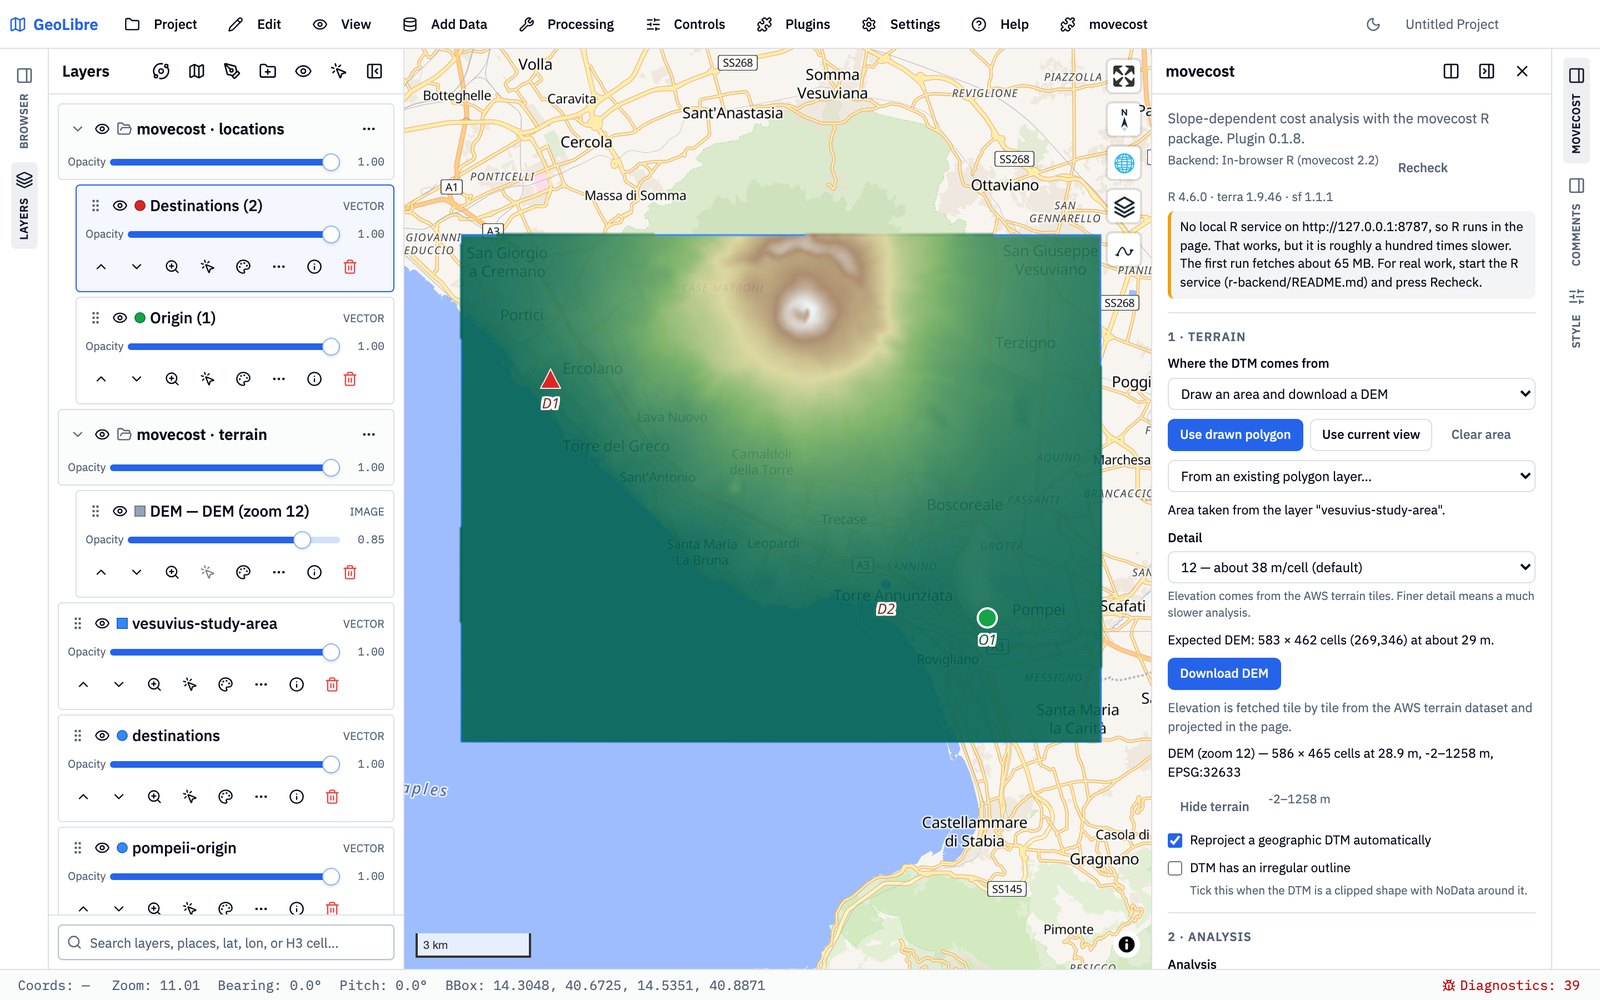
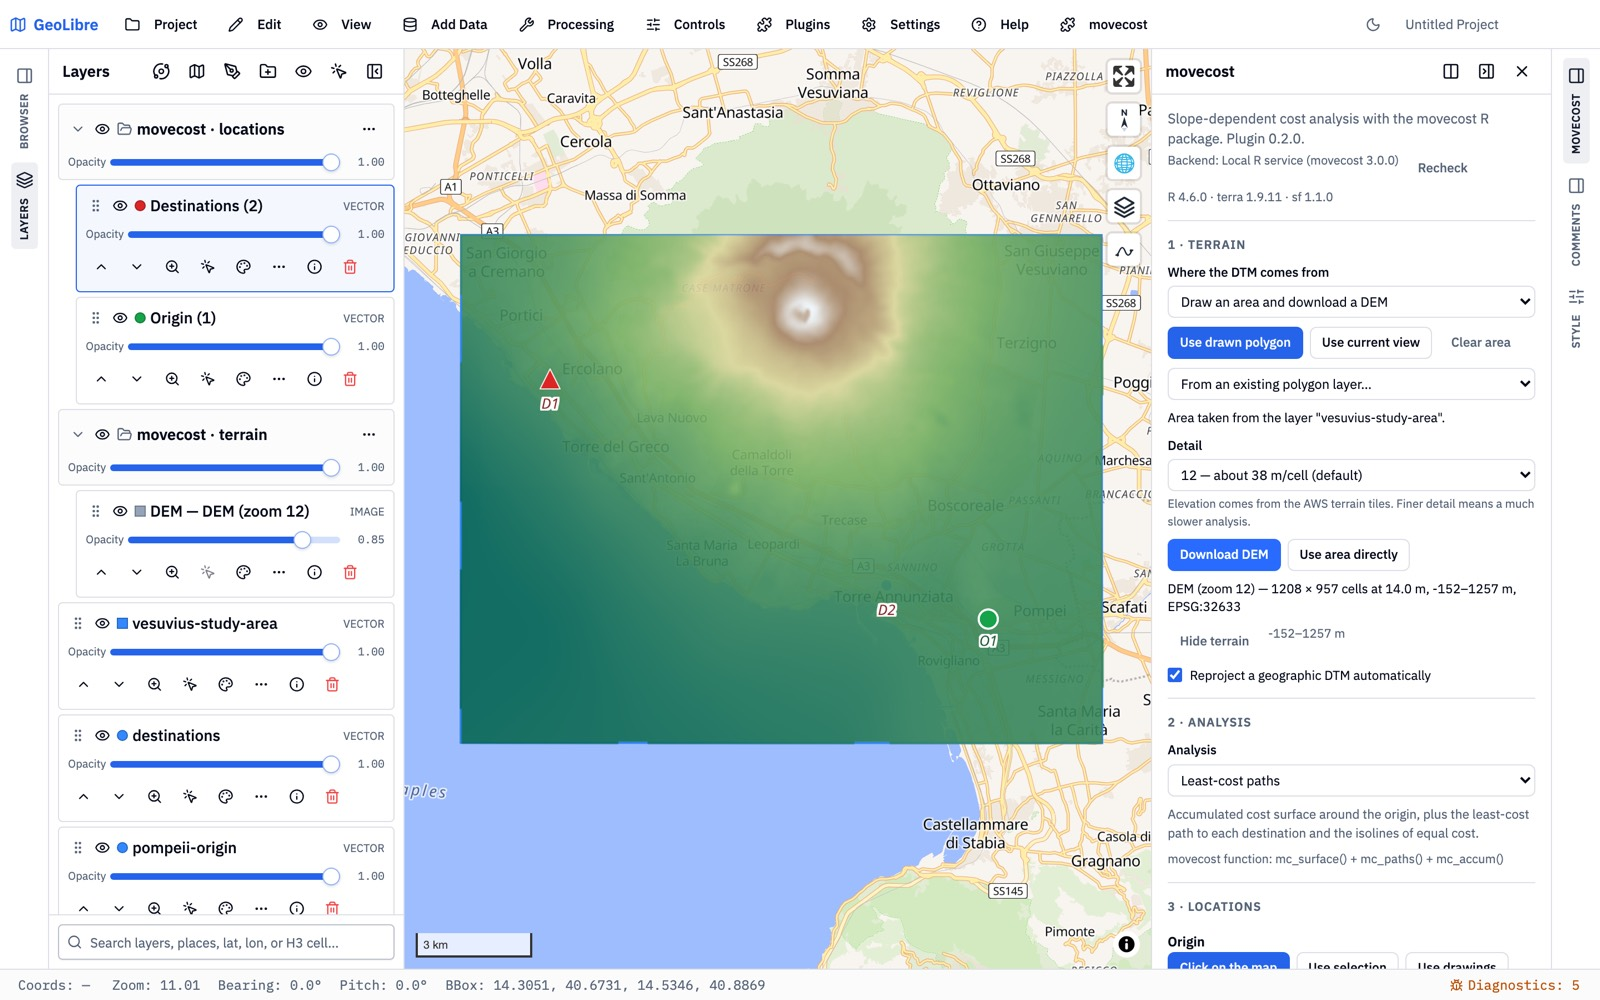
Verify the 3.0 port against a real host, and fix what that found
A one-line log came back from the engine as a bare string, because jsonlite's
auto_unbox does that to a length-one vector — and one line is exactly what a
run that reuses the cached surface produces, so the panel's log.join() threw on
every successful analysis. The log is now written through I(), and the panel
accepts either shape.

mcx_require() also checks that the loaded movecost namespace actually has
mc_surface(): upgrading the package under a running R service leaves the old
namespace loaded, which reported a healthy 3.0.0 on disk and then failed with
422 on every run.

scripts/test-matrix.R is the verification: every analysis without a barrier and
with a wall between origin and destination, asserting the paths stop crossing
it and that network and ranked paths honour it too; all 26 cost functions; the
neighbourhoods, time units, cognitive slope, topographic distance; and the
surface cache reusing and rebuilding when it should. A barrier is rasterised by
the cells it falls in, so the fixture wall runs through the middle of a row —
on a row boundary it removes 16 graph edges and blocks nothing.

scripts/build-geolibre-preview.sh builds GeoLibre locally with the plugin baked
in, the way the registry's preview workflow does, so an end-to-end run does not
depend on that workflow being approved. The guide screenshots are recaptured
from it, on 0.2.0.

diff --git a/src/ui/panel.ts b/src/ui/panel.ts
@@ -1336,11 +1336,16 @@ export class MovecostPanel {
       }
     }
 
-    if (response.log?.length) {
+    const logLines = Array.isArray(response.log)
+      ? response.log
+      : response.log
+        ? [String(response.log)]
+        : [];
+    if (logLines.length) {
       children.push(
         el("details", { class: "mcx-table" },
           el("summary", { text: "Engine log" }),
-          el("pre", { class: "mcx-pre", text: response.log.join("\n") }),
+          el("pre", { class: "mcx-pre", text: logLines.join("\n") }),
         ),
       );
     }

diff --git a/docs/ARCHITECTURE.md b/docs/ARCHITECTURE.md
@@ -140,6 +140,11 @@ lengths — arrive as `units` objects, which `jsonlite` cannot serialise;
 `mcx_plain_table()` strips the class and the number travels plain, with the unit
 documented rather than encoded.
 
+`log` is written through `mcx_log_out()`, which wraps it in `I()`. Without that,
+`jsonlite`'s `auto_unbox` turns a one-line log into a bare string and the
+panel's `log.join()` throws — and one line is exactly what a cached-surface run
+produces, so the port made a latent bug the common case.
+
 ## Why the results are added the way they are
 
 Every layer the plugin draws — terrain, origin / destination markers, result
@@ -228,6 +233,13 @@ Three consequences follow through the rest of the plugin:
   list of them, and the engine loops: with the graph already built, each extra
   limit costs only its own pass. Boundaries come back as polygons with `area`
   and `perimeter`, where 2.x returned lines.
+* **A barrier is rasterised by the cells it falls in**, so a line laid exactly
+  along the DTM's own grid lines touches almost none of them. On an 80x80 grid
+  of 50 m cells, a wall on a row boundary removed 16 graph edges and blocked
+  nothing; the same wall 25 m higher removed about 950 and raised the crossing
+  cost by a fifth. This is movecost's behaviour, not the plugin's, and it only
+  bites fixtures with round coordinates — but it is why
+  `scripts/test-matrix.R` puts its wall through the middle of a row.
 * **The dependency list changed**: terra + sf + igraph + ggplot2 in, and
   raster, sp, gdistance and chron out. ggplot2 is there because movecost
   imports it for its plot methods; the engine never calls them, since 3.0

diff --git a/README.md b/README.md
@@ -194,6 +194,24 @@ Rscript scripts/test-engine.R
 It builds a synthetic DTM, exercises every analysis, checks the raster payloads
 round-trip as `Float32`, and exits non-zero on failure.
 
+```bash
+Rscript scripts/test-matrix.R
+```
+
+is the thorough one: every analysis twice, without a barrier and with a wall
+between origin and destination, asserting that the barrier actually diverts the
+paths; all 26 cost functions; the movement neighbourhoods, both time units,
+cognitive slope and topographic distance; and the surface cache — that the same
+settings reuse the graph and changed ones rebuild it.
+
+```bash
+node scripts/test-wasm-install.mjs [repository-url]
+```
+
+installs the whole R stack into webR under Node — from `build/wasm-repo` by
+default, or from the published repository if you give its URL — and runs the
+engine there, which is the check that the browser path works.
+
 > On macOS with the CRAN build of R, set `PROJ_LIB` first if you see
 > "Cannot find proj.db":
 > `export PROJ_LIB=/Library/Frameworks/R.framework/Resources/library/sf/proj`
